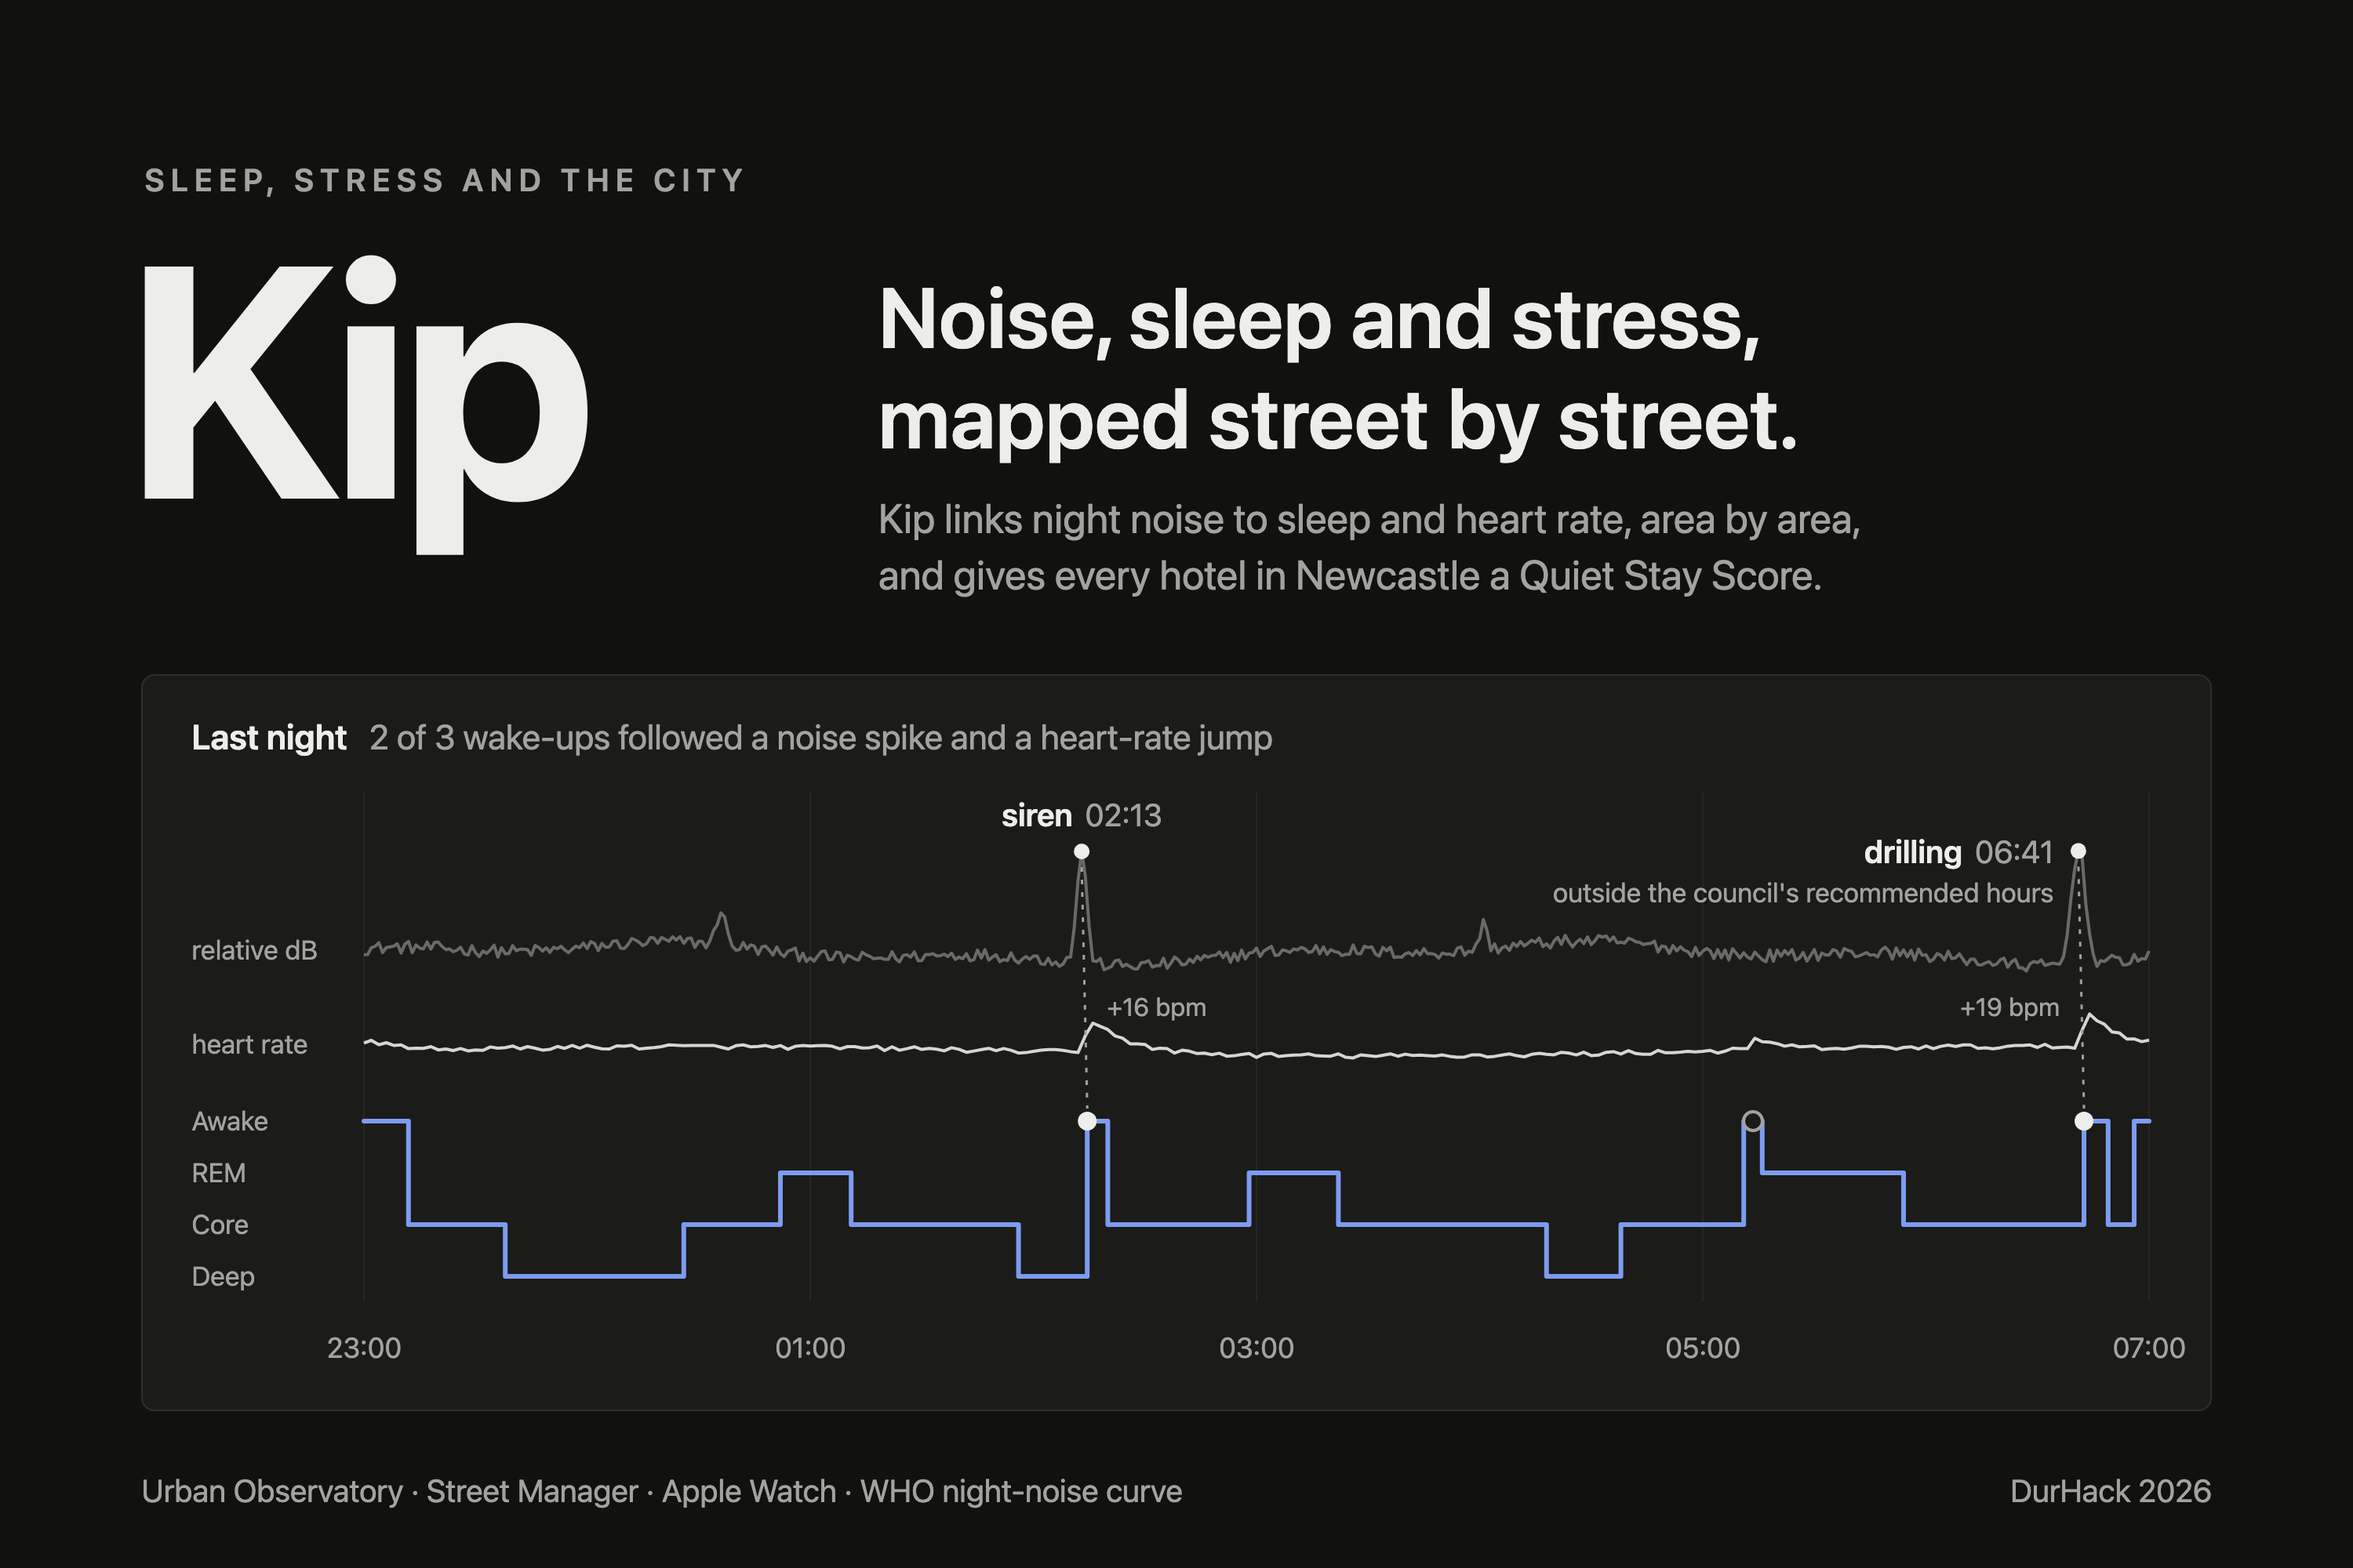
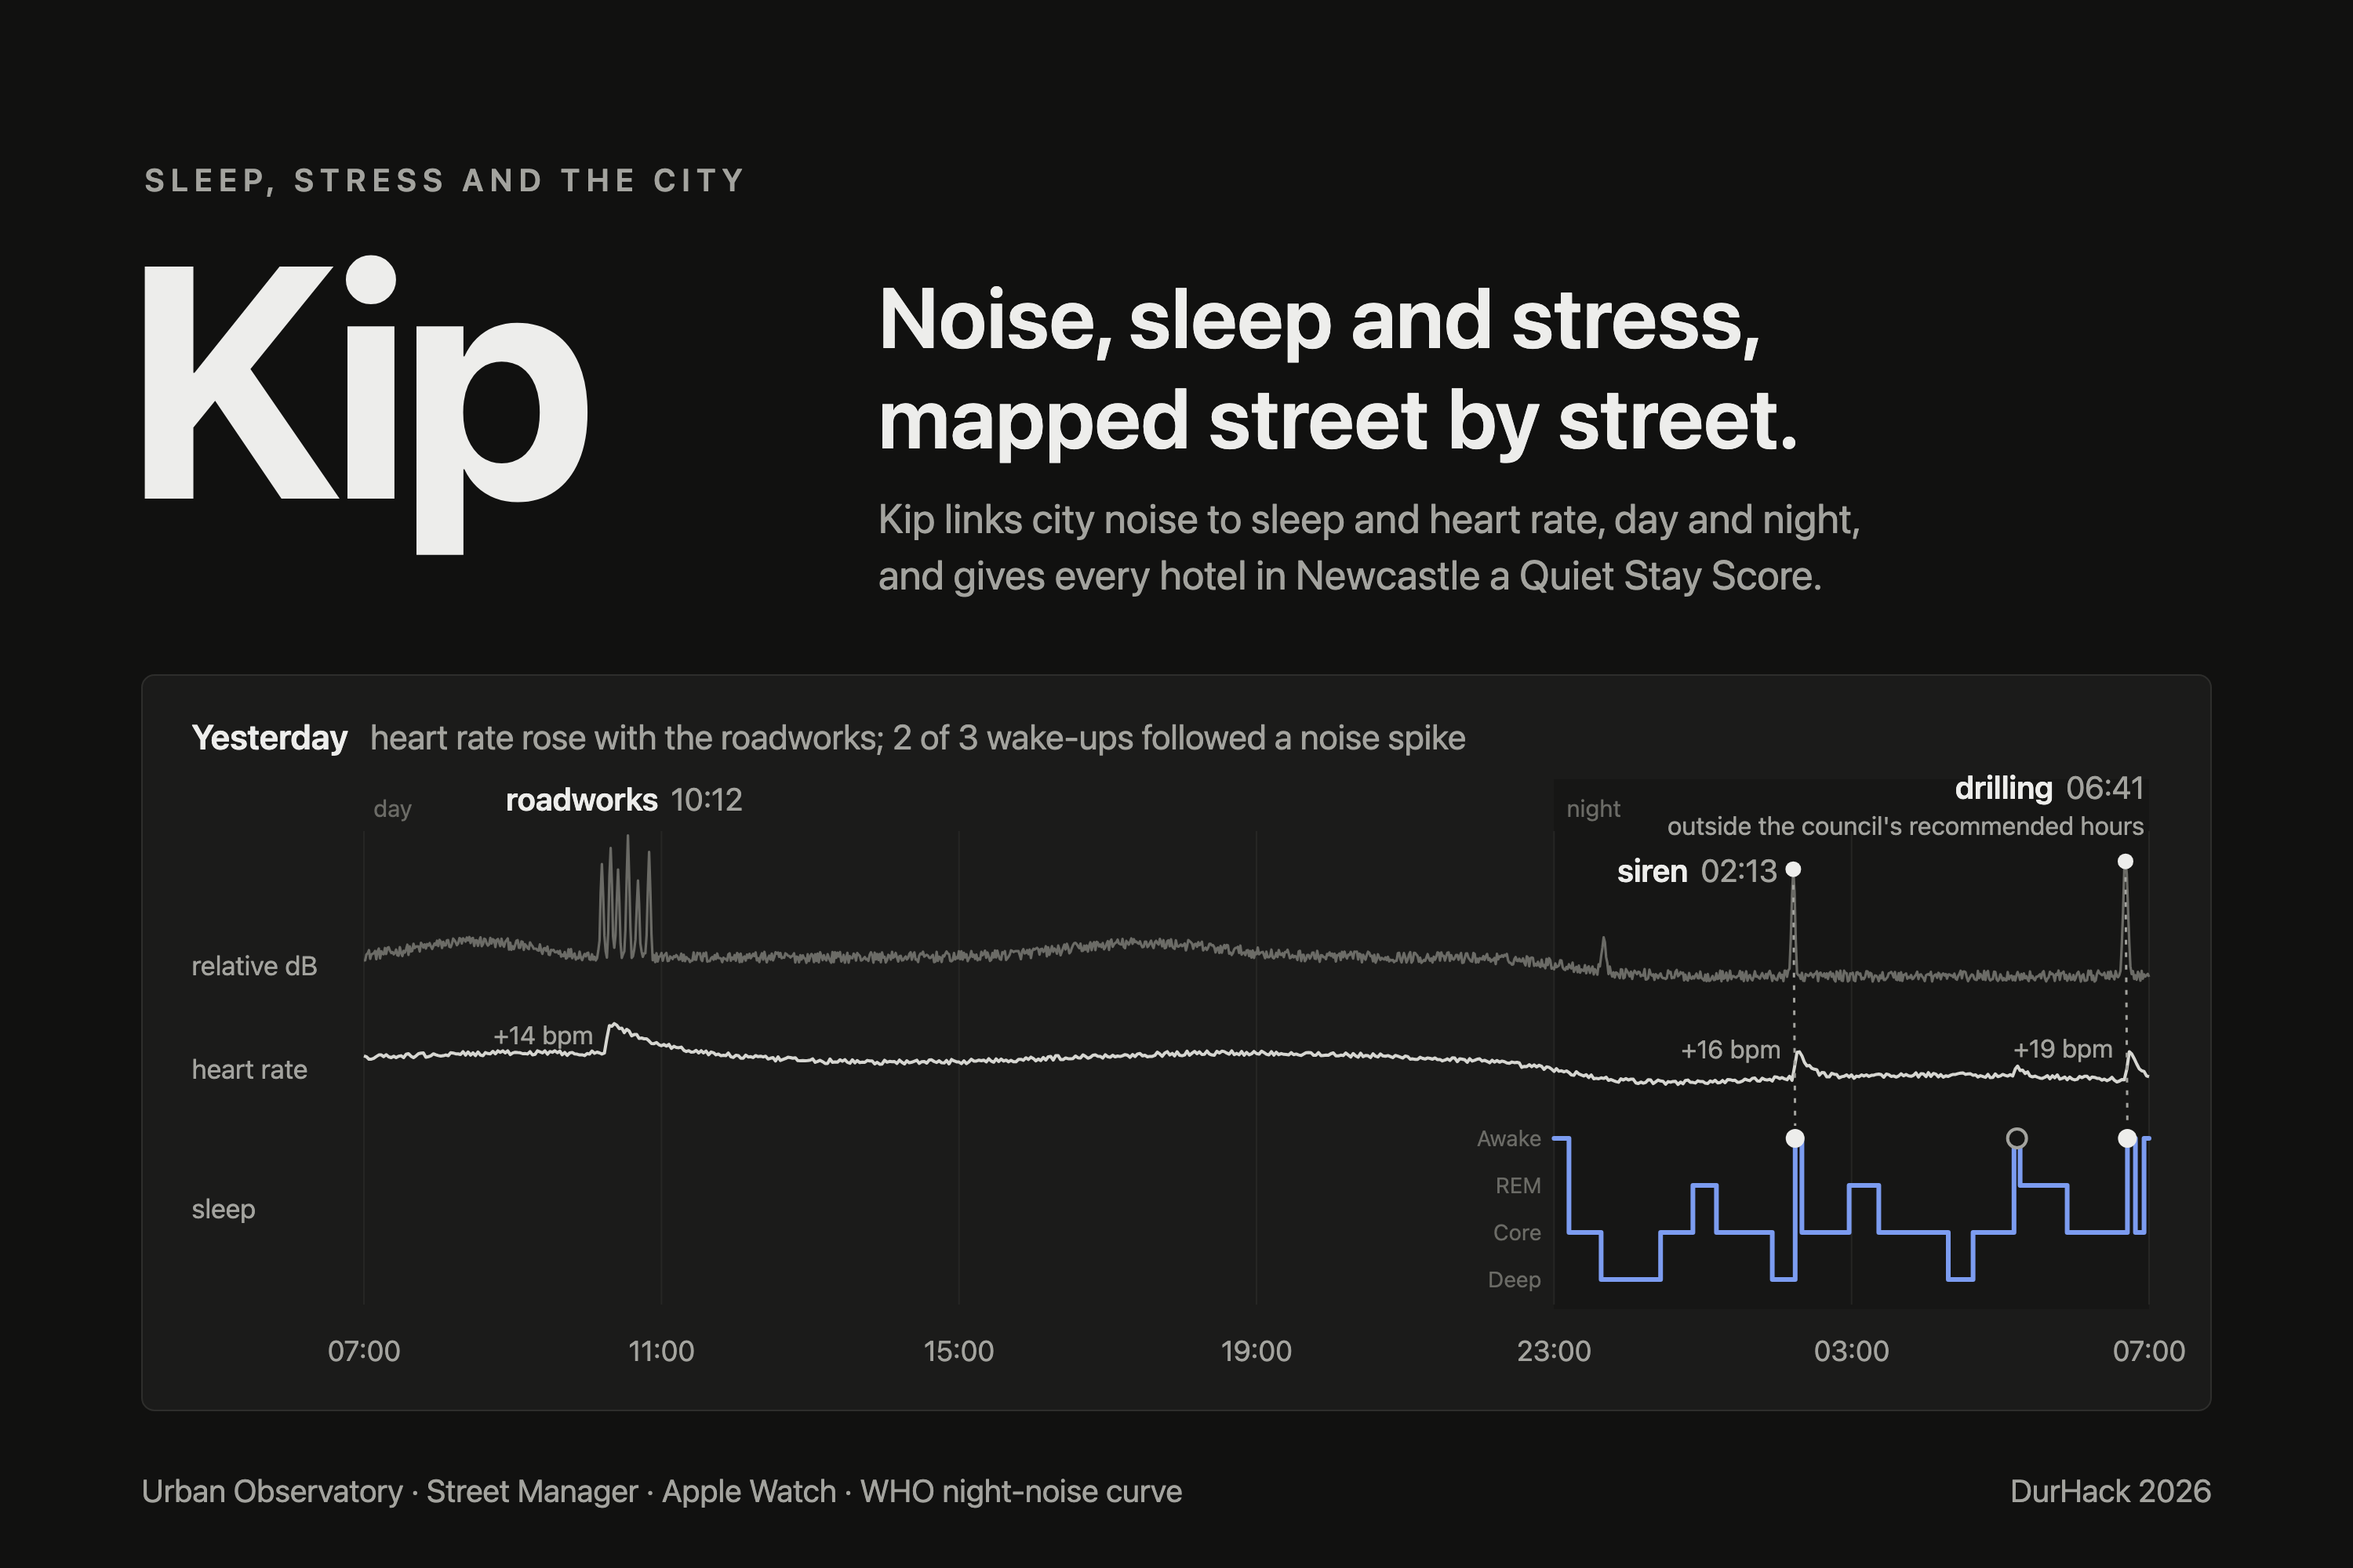
Frame Kip around noise, sleep and stress, day and night
The README now leads with daytime stress as well as sleep: phones as
sensors at home, at work and on the street, live labels against the
council's hours, and stress through the day as what's next. The banner
shows a full day, with heart rate rising during roadworks and the
night's wake-ups after a siren and drilling.

Entire-Checkpoint: 8d9107fa40a4

diff --git a/README.md b/README.md
@@ -4,58 +4,60 @@
 
 **Noise, sleep and stress, mapped street by street.**
 
-Cities measure noise. People live with it: drilling at 6am, a siren at 2am, a hotel room above a
-bar. Nobody connects the two. Kip does, and every person who uses it makes the map better.
+Cities measure noise. People live with it: roadworks outside the office, a bar under the bedroom
+window, a siren at 2am. Nobody connects the noise to how people sleep and how stressed they feel.
+Kip does, and every person who uses it makes the map better.
 
 [Live demo](https://kip.edenmatrix.xyz) · [Devpost write-up](docs/demo/devpost.md) · Built in 24
 hours at DurHack 2026 by Ellis and Nick
 
 ## Mission
-Night noise is one of Europe's largest environmental health costs. The WHO estimates that western
-Europe loses at least a million healthy years of life to traffic noise every year, and disturbed
-sleep is the largest share (*Burden of disease from environmental noise*, 2011). Our goal is fewer
-sleepless nights and less night-time stress in cities.
+Noise is one of Europe's largest environmental health costs, and it doesn't stop at bedtime. The
+WHO estimates that western Europe loses at least a million healthy years of life to traffic noise
+every year, through disturbed sleep, annoyance, heart disease and children's learning (*Burden of
+disease from environmental noise*, 2011). Our goal is less stress and better sleep for people in
+cities, day and night.
 
-That starts with measuring noise where people actually sleep. City sensors are few, and they sit
-at the kerb. Kip turns every phone that opts in into another sensor and links what it hears to
-sleep and heart rate. The more people use Kip, the denser the network, and the clearer it becomes
-which streets keep a city awake.
+That starts with measuring noise where people actually are. City sensors are few, and they sit at
+the kerb. Kip turns every phone that opts in into another sensor, at home, at work and on the
+street, and links what it hears to sleep and heart rate. The more people use Kip, the denser the
+network, and the clearer it becomes where noise is linked to poor sleep and stress.
 
 ## Every user is a sensor
 ```mermaid
 flowchart LR
-  obs["Urban Observatory<br/>street sensors"] --> kip
+  obs["Urban Observatory<br/>street sensors, around the clock"] --> kip
   phones["Phones running Kip<br/>rustle removed by our model"] --> kip
   kip["Kip links noise to<br/>sleep and heart rate"] --> map["Area map<br/>sleep now, stress next"]
-  kip --> night["Your night<br/>which wake-ups followed which noise"]
+  kip --> you["You<br/>which noise came before<br/>a wake-up or a heart-rate jump"]
   kip --> stays["Quiet Stay Score<br/>for every hotel"]
   map --> users["More people use Kip"]
-  night --> users
+  you --> users
   stays --> users
   users --> phones
 ```
 
 ## What it does
 - **Area map.** Urban Observatory noise sensors across Newcastle, each shaded by an indicative
-  estimate of residents highly sleep disturbed: 30 nights of night-time noise (Lnight) through
-  the WHO road-traffic curve, with roadworks permits on top.
-- **Your night.** Apple Watch sleep stages and heart rate beside bedroom noise in relative dB.
-  Gemini labels each spike (construction, traffic, siren, snoring) and ElevenLabs Scribe gives a
-  second opinion. Where they disagree, Kip says "uncertain", so your own snoring isn't blamed on
-  the building site. Kip shows which wake-ups followed a spike, compared with random moments from
-  the same night, and flags works outside the council's recommended hours.
-- **Briefing and evidence.** A spoken morning summary, a drafted out-of-hours report for the
-  council, and the night's log hash anchored on Solana (devnet for the demo), which proves when
-  the log existed.
-- **Quiet Stays.** Every hotel in Newcastle scored on night noise nearby, roadworks on your dates,
-  night air quality and nights slept nearby by Kip users, then re-ranked for a light sleeper, a
+  estimate of nearby residents highly sleep disturbed (30 nights of night-time noise through the
+  WHO road-traffic curve), with roadworks permits on top.
+- **Noise, labelled.** Gemini labels each noise spike (construction, traffic, siren, snoring) and
+  ElevenLabs Scribe gives a second opinion. Where they disagree, Kip says "uncertain", so your own
+  snoring isn't blamed on the building site. Live, Kip labels a spike within seconds and checks it
+  against the council's recommended hours for noisy work.
+- **Your sleep.** Apple Watch sleep stages and heart rate beside bedroom noise in relative dB. Kip
+  shows which wake-ups followed a noise spike, compared with random moments from the same night.
+- **Briefing and evidence.** A spoken summary, a drafted report for the council, and the log's
+  hash anchored on Solana (devnet for the demo), which proves when the log existed.
+- **Quiet Stays.** Every hotel in Newcastle scored on the noise around it, roadworks on your
+  dates, air quality and nights slept nearby by Kip users, then re-ranked for a light sleeper, a
   night out, best value or business, in one MongoDB geo pipeline.
 
 Kip says "linked to", never "caused by", and every estimate is labelled indicative. Simulated
 data, such as the other users on the map, is labelled simulated wherever it appears.
 
 ## Our model: a phone that doesn't hear itself
-A phone on a nightstand, in a pocket or under a pillow mostly hears itself: sleeves, bedsheets,
+A phone in a pocket, on a desk or under a pillow mostly hears itself: sleeves, bags, bedsheets,
 being picked up. Left in, that rustle becomes false spikes and false links to wake-ups, and a
 phone is useless as a sensor. So we trained our own model to remove it.
 
@@ -65,20 +67,20 @@ phone is useless as a sensor. So we trained our own model to remove it.
 |---|---|---|
 | SI-SDR improvement | **+11.9 dB** | -3.9 dB, worse than doing nothing |
 
-It removes 17.9 dB where there is handling noise and 0.15 dB everywhere else, so the room
-underneath stays. On a real recording of a phone set down five times, it caught all five drops
-(precision 0.96, recall 1.0). It is a 0.42M-parameter PyTorch mask model, trained in 14 minutes
-on a Lium RTX 3090 for $0.16 and exported to ONNX. Details: [ml/README.md](ml/README.md).
+It removes 17.9 dB where there is handling noise and 0.15 dB everywhere else, so the sound around
+the phone stays. On a real recording of a phone set down five times, it caught all five drops
+(precision 0.96, recall 1.0), and it already thins the rustle of a phone in a pocket while
+walking. It is a 0.42M-parameter PyTorch mask model, trained in 14 minutes on a Lium RTX 3090 for
+$0.16 and exported to ONNX. Details: [ml/README.md](ml/README.md).
 
 ## What's next
-1. **Stress by area.** Nights already carry heart rate and HRV. With enough consenting users,
-   Kip can show where noise is linked to restless, high-heart-rate nights, street by street. An
-   indicator, not a diagnosis.
-2. **More sensors.** Finish overnight recording on the phone and run our model on every clip, so
-   real nights correct the city estimate. Then cities beyond Newcastle.
+1. **Stress, day and night.** Apple Watch heart rate and HRV through the day, linked to the noise
+   around you, then mapped area by area. An indicator, not a diagnosis.
+2. **More sensors.** Phones that sense through the day as well as overnight, so real readings
+   correct the city estimate. Then cities beyond Newcastle.
 3. **A business that pays for the network.** Affiliate commission on hotel bookings first, then
    Verified Quiet (hotels pay to replace the estimate with measured, room-by-room data), then
-   area data for councils and developers planning night work.
+   area data for councils, developers and estate agents.
 
 ## Built with
 Expo (iPhone and web) · TypeScript and Bun · tRPC on Hono · Tiger Data (TimescaleDB) · MongoDB
